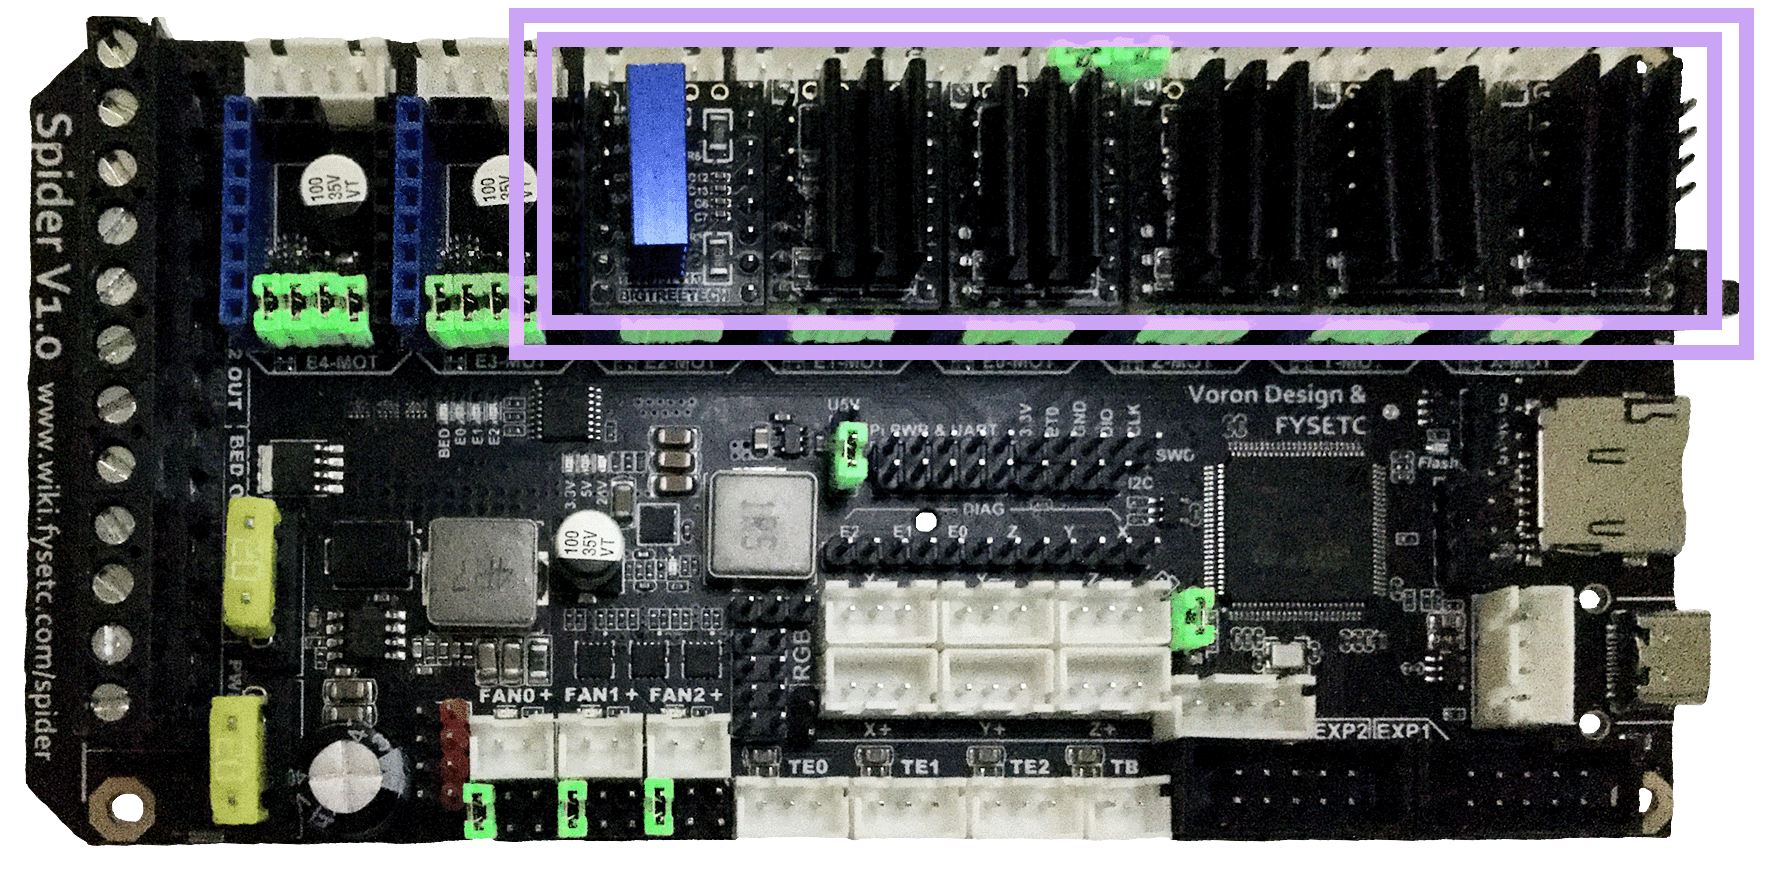
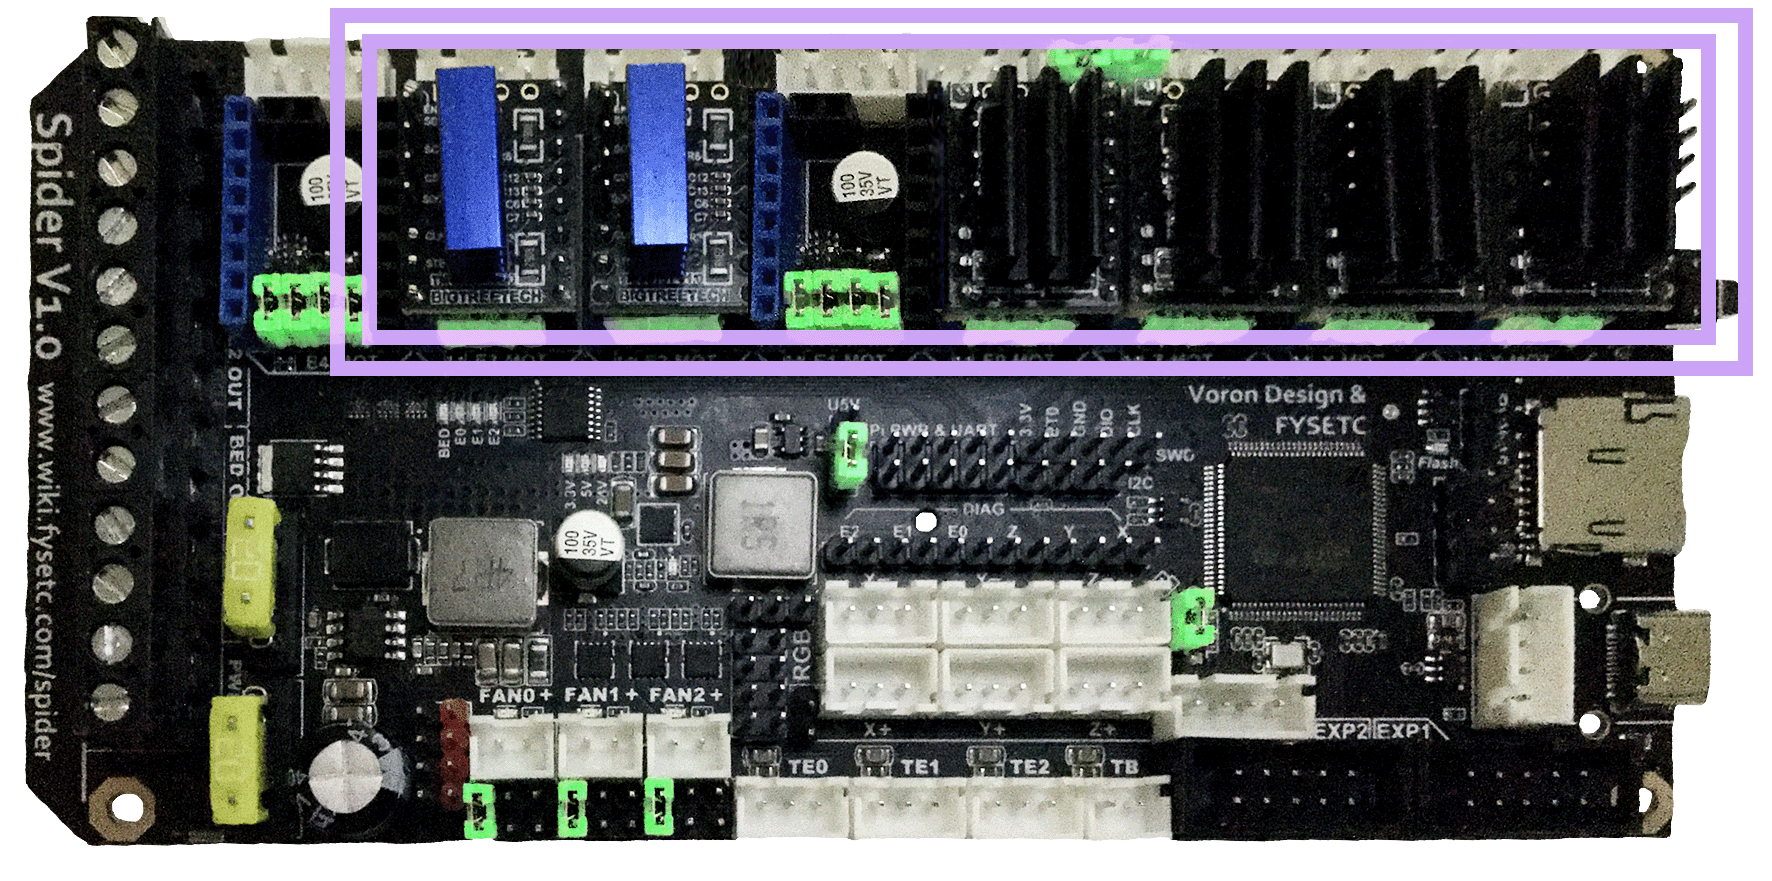
update link to config file

Changed region(s): [[0.1552, 0.0, 0.9932, 0.4291], [0.4656, 0.4904, 0.4966, 0.5516]]

diff --git a/community/electronics/GadgetAngel/tri_spiderv10_spi_wiring.md b/community/electronics/GadgetAngel/tri_spiderv10_spi_wiring.md
@@ -74,10 +74,10 @@ __<span class="underline-double-trouble color-blind-red">IMPORTANT:</span>__ **D
 * - [ ] Connect stepper drivers for the Z into positions Z-MOT (driver socket).
 * - [ ] Plug in stepper motors for the Z into positions Z1-MOT (motor connectors).
 * - [ ] Ensure that Z2-MOT motor connector has two jumpers set.  These jumpers allow the Z1-MOT connector to work properly.
-* - [ ] Connect stepper drivers for the Z1 into positions E1-MOT (driver socket).
-* - [ ] Plug in stepper motors for the Z1 into positions E1-MOT (motor connectors).
-* - [ ] Connect stepper drivers for the Z2 into positions E2-MOT (driver socket).
-* - [ ] Plug in stepper motors for the Z2 into positions E2-MOT (motor connectors).
+* - [ ] Connect stepper drivers for the Z1 into positions E2-MOT (driver socket).
+* - [ ] Plug in stepper motors for the Z1 into positions E2-MOT (motor connectors).
+* - [ ] Connect stepper drivers for the Z2 into positions E3-MOT (driver socket).
+* - [ ] Plug in stepper motors for the Z2 into positions E3-MOT (motor connectors).
 * - [ ] Connect stepper driver for the extruder motor into position E0-MOT (driver socket).
 * - [ ] Plug in stepper motor for the extruder motor into position E0-MOT (motor connector).
 * - [ ] Connect the hot end heater to E0 OUT (PB15)
@@ -88,8 +88,8 @@ __<span class="underline-double-trouble color-blind-red">IMPORTANT:</span>__ **D
 * - [ ] Connect the controller fans to FAN2 (PB2)
 * - [ ] Connect the hot end thermistor to TE0 (PC0)
 * - [ ] Connect the bed thermistor to TB (PC3)
-* - [ ] Connect the X endstop to X+ (PA1)
-* - [ ] Connect the Y endstop to Y+ (PA2)
+* - [ ] Connect the X endstop to X- (PB14)
+* - [ ] Connect the Y endstop to Y- (PB13)
 * - [ ] Connect the PROBE to Z+ (PA3)
 * - [ ] Connect the Z endstop to Z- (PA0)
 * if using a mini12864 display:
@@ -142,7 +142,7 @@ __<span class="underline-double-trouble color-blind-red">IMPORTANT:</span>__ **D
 
 ## The Klipper Configuration file for Fysetc Spider V1.1 Board (UART mode - SPI mode needs to be added to this)
 
-The Klipper Configuration file from VoronDesign/Voron-Trident GitHub Repo by Majarspeed for Fysetc Spider V1.1 board is [located here](https://github.com/majarspeed/Voron-Trident/blob/main/Firmware/voron-trident-spider.cfg){:target="_blank" rel="noopener"};
+The Klipper Configuration file by Majarspeed for Fysetc Spider V1.1 board is [located here](../../../build/electrical/images/voron-trident-spider.cfg){:target="_blank" rel="noopener"};
 
 ## URL Resources Links for the Fystec Spider (PIN Diagrams and Repo)
 
@@ -154,7 +154,7 @@ The Klipper Configuration file from VoronDesign/Voron-Trident GitHub Repo by Maj
 
 2. Once Mainsail/Fluidd or Octoprint has been installed, the next step is to **compile and install** the Klipper Firmware, please see [The Build ═► Software Installation -> Firmware Flashing(Header) -> Fysetc Spider](../../../build/software/spider_klipper#spider-klipper-firmware){:target="_blank" rel="noopener"}
 
-3. Once the MCU board has the Klipper Firmware Installed, the next step is to **create/edit** the Klipper Config file (voron-trident-spider.cfg rename it to printer.cfg and replace UART with SPI). Please see [voron-trident-spider.cfg by Majarspeed](https://github.com/majarspeed/Voron-Trident/blob/main/Firmware/voron-trident-spider.cfg){:target="_blank" rel="noopener"} as a good starting point;
+3. Once the MCU board has the Klipper Firmware Installed, the next step is to **create/edit** the Klipper Config file (voron-trident-spider.cfg rename it to printer.cfg and replace UART with SPI). Please see [voron-trident-spider.cfg by Majarspeed](../../../build/electrical/images/voron-trident-spider.cfg){:target="_blank" rel="noopener"} as a good starting point;
 
     * Please use the Color PIN Diagrams, [displayed here](../../../build/electrical/Fysetc_Spider_Resources_v1#color-pin-diagram-for-fysetc-spider-v10){:target="_blank" rel="noopener"}, as a source of information;
 
